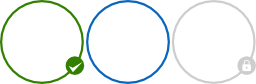
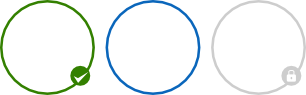
Mensaje update css

diff --git a/main/css/ICPNA/default.css b/main/css/ICPNA/default.css
@@ -410,33 +410,35 @@ header #logo {
     background: transparent url(images/estados-iconos.png) no-repeat;
     cursor: pointer;
     display: block;
-    height: 90px;
-    width: 85px;
+    height: 95px;
+    width: 95px;
     /*position: absolute;*/
     margin:auto;
+    padding-top: 1em;
 }
 
 .row .state-icon-process{
     background: transparent url(images/estados-iconos.png) no-repeat;
-    background-position: -85px 0px;
+    background-position: -105px 0px;
     cursor: pointer;
     display: block;
-    height: 90px;
-    width: 85px;
+    height: 95px;
+    width: 95px;
     /*position: absolute;*/
     margin:auto;
-    padding-top: 0.5em;
+    padding-top: 1em;
 }
 
 .row .state-icon-closed{
     background: transparent url(images/estados-iconos.png) no-repeat;
-    background-position: -171px 0px;
+    background-position: -210px 0px;
     cursor: pointer;
     display: block;
-    height: 90px;
-    width: 85px;
+    height: 95px;
+    width: 95px;
     /*position: absolute;*/
     margin:auto;
+    padding-top: 1em;
 }
 
 /* FIN DEL ESTADO DE ICONOS DE LAS LECCIONES */
